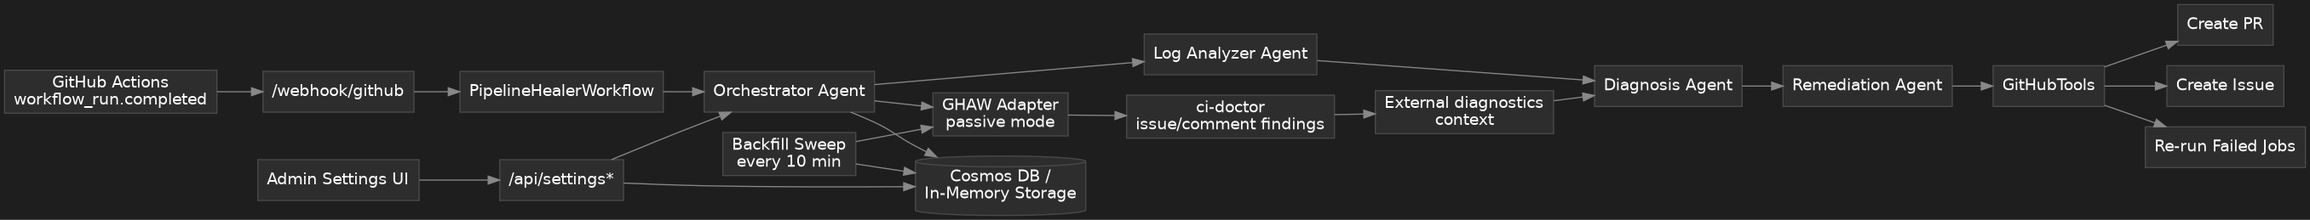
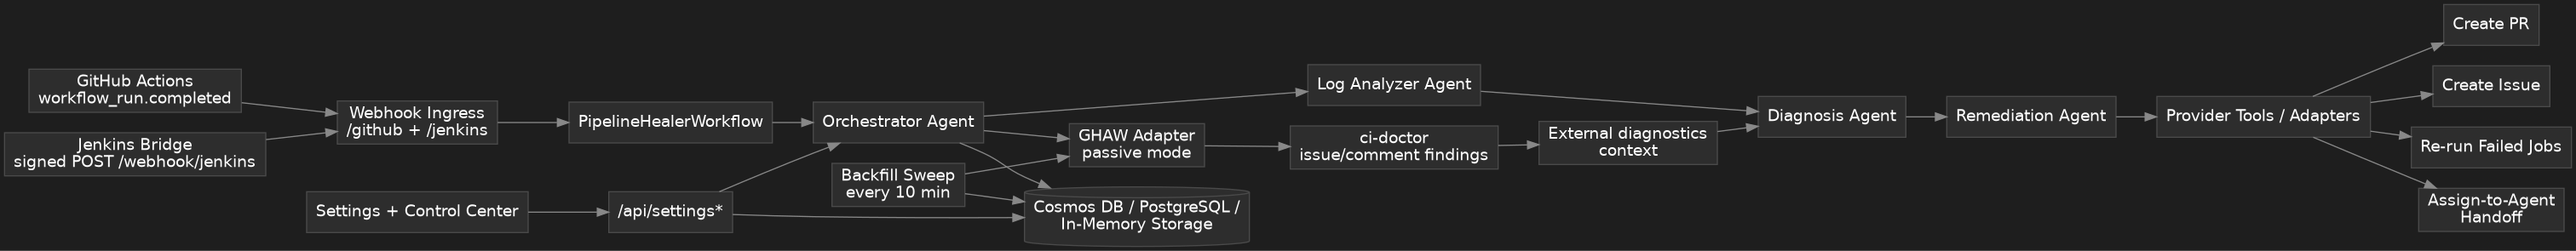
Refresh docs and diagrams for control-plane framing

diff --git a/frontend/src/components/Layout.tsx b/frontend/src/components/Layout.tsx
@@ -87,7 +87,7 @@ export default function Layout() {
             <div className="flex items-center">
               <div className="ml-3">
                 <p className="text-xs font-medium text-slate-300/90">OSS-first control plane</p>
-                <p className="text-xs text-slate-500">GitHub Actions + Jenkins bridge today</p>
+                <p className="text-xs text-slate-500">GitHub Actions + Jenkins Bridge today</p>
               </div>
             </div>
           </div>

diff --git a/frontend/src/pages/Landing.tsx b/frontend/src/pages/Landing.tsx
@@ -76,7 +76,7 @@ const operationalSignals = [
 
 const platformStats = [
   { value: 2, label: 'Ingress Paths', suffix: '' },
-  { value: 3, label: 'Operator Surfaces', suffix: '' },
+  { value: 4, label: 'Operator Surfaces', suffix: '' },
   { value: 4, label: 'Agent Stages', suffix: '' },
   { value: 100, label: 'Auditable Actions', suffix: '%' },
 ]

diff --git a/docs/diagrams/render_pipeline_healer_architecture.py b/docs/diagrams/render_pipeline_healer_architecture.py
@@ -6,27 +6,30 @@ from pathlib import Path
 def build_pipeline_healer_architecture_dot() -> str:
     nodes = {
         "GH": "GitHub Actions\\nworkflow_run.completed",
-        "WH": "/webhook/github",
+        "JN": "Jenkins Bridge\\nsigned POST /webhook/jenkins",
+        "WH": "Webhook Ingress\\n/github + /jenkins",
         "WF": "PipelineHealerWorkflow",
         "OR": "Orchestrator Agent",
         "LA": "Log Analyzer Agent",
         "DG": "Diagnosis Agent",
         "RM": "Remediation Agent",
-        "GT": "GitHubTools",
+        "GT": "Provider Tools / Adapters",
         "PR": "Create PR",
         "IS": "Create Issue",
         "RR": "Re-run Failed Jobs",
+        "HO": "Assign-to-Agent\\nHandoff",
         "ADP": "GHAW Adapter\\npassive mode",
         "CD": "ci-doctor\\nissue/comment findings",
         "EXT": "External diagnostics\\ncontext",
         "BF": "Backfill Sweep\\nevery 10 min",
-        "ST": "Cosmos DB /\\nIn-Memory Storage",
-        "UI": "Admin Settings UI",
+        "ST": "Cosmos DB / PostgreSQL /\\nIn-Memory Storage",
+        "UI": "Settings + Control Center",
         "API": "/api/settings*",
     }
 
     edges = [
         ("GH", "WH"),
+        ("JN", "WH"),
         ("WH", "WF"),
         ("WF", "OR"),
         ("OR", "LA"),
@@ -40,6 +43,7 @@ def build_pipeline_healer_architecture_dot() -> str:
         ("GT", "PR"),
         ("GT", "IS"),
         ("GT", "RR"),
+        ("GT", "HO"),
         ("OR", "ST"),
         ("BF", "ADP"),
         ("BF", "ST"),

diff --git a/README.md b/README.md
@@ -1,6 +1,6 @@
 # PipelineHealer
 
-<!-- LAST_VERIFIED: 9502342 -->
+<!-- LAST_VERIFIED: 39aec90 -->
 
 > OSS-first, policy-aware pipeline remediation platform with GitHub Actions and Jenkins bridge support today.
 
@@ -19,14 +19,14 @@ Current provider coverage is GitHub Actions plus a signed Jenkins bridge path. T
 ![Dashboard — processed count, safety gating ratios, failure type breakdown, and explainability snapshot](docs/screens/dashboard.png)
 ![Landing page — policy-aware remediation overview and operational snapshot](docs/screens/Pipelinehealer-Landing_Page.png)
 
-## Hackathon Snapshot
+## Project Snapshot
 
 - Public repository: `https://github.com/Canepro/pipelinehealer`
 - Live reference deployment: Azure Container Apps (backend + frontend)
 - Current release baseline: [`v0.3.3`](https://github.com/Canepro/pipelinehealer/releases/tag/v0.3.3)
 - `v0.3.2` required freeze scope shipped: `#36` (Jenkins bridge), `#42` (Assign-to-Agent), `#57` (storage posture hardening)
 - OSS-friendly durable storage is available: PostgreSQL adapter (`#58`) alongside Cosmos DB and in-memory development mode
-- Current release tracking umbrella: [#44](https://github.com/Canepro/pipelinehealer/issues/44)
+- Current release tracking umbrella: [#68](https://github.com/Canepro/pipelinehealer/issues/68)
 - Demo runbook: [docs/DEMO_SCRIPT.md](docs/DEMO_SCRIPT.md)
 
 ## Example Remediation Stories
@@ -216,7 +216,7 @@ flowchart TB
   end
 
   subgraph GOV["Policy and Operator Surface"]
-    UI["Dashboard / Activities / Settings"]
+    UI["Dashboard / Activities / Control Center / Settings"]
     API["Settings API<br/>/api/settings*"]
     AUD["Audit Trail"]
     LRN["Learning Queue + Promotion Gates"]
@@ -227,10 +227,11 @@ flowchart TB
     EXP["Explainability Metadata<br/>source path, reason codes"]
   end
 
-  subgraph OUT["GitHub Outcomes"]
+  subgraph OUT["Outcome Paths"]
     PR["Create or Reuse PR"]
     IS["Create or Reuse Issue"]
     RR["Retry Failed Jobs"]
+    HO["Assign-to-Agent Handoff"]
   end
 
   GH --> WH --> ORCH
@@ -240,6 +241,7 @@ flowchart TB
   REM --> PR
   REM --> IS
   REM --> RR
+  REM --> HO
 
   ORCH -. enrich .-> GHAW
   GHAW -. findings .-> DIA
@@ -259,15 +261,15 @@ flowchart TB
 
 ```mermaid
 sequenceDiagram
-  participant GH as GitHub Actions
+  participant SRC as Pipeline Source
   participant WH as Webhook API
   participant OR as Orchestrator
   participant DI as Diagnosis
   participant RM as Remediation
   participant DB as Storage
-  participant OUT as GitHub Artifacts
+  participant OUT as Provider / Handoff Outcomes
 
-  GH->>WH: workflow_run.completed (failure)
+  SRC->>WH: normalized failure event
   WH->>OR: normalized event
   OR->>DI: logs + context + policy snapshot
   DI-->>OR: diagnosis + confidence + evidence

diff --git a/CHANGELOG.md b/CHANGELOG.md
@@ -1,6 +1,6 @@
 # Changelog
 
-<!-- LAST_VERIFIED: 9477f08 -->
+<!-- LAST_VERIFIED: 39aec90 -->
 
 All notable changes to this project will be documented in this file.
 
@@ -15,7 +15,7 @@ The format is based on Keep a Changelog and this repo uses Semantic Versioning.
 ### Changed
 
 - Normalized operator-facing provenance language around `GET /api/settings`: `env` now represents portable startup-managed config rather than implying a specific deployment adapter such as ACA `secretref`.
-- Reframed the landing page, app shell, and Settings copy around PipelineHealer as an OSS-first pipeline remediation control plane rather than a hackathon-only CI demo, aligning product language with the operator surfaces shipped in `v0.4.0`.
+- Reframed the landing page, app shell, and Settings copy around PipelineHealer as an OSS-first pipeline remediation control plane rather than a hackathon-only CI demo, aligning product language with the operator surfaces targeted for `v0.4.0`.
 
 ## [v0.3.3] - 2026-03-05
 

diff --git a/docs/DEMO_SCRIPT.md b/docs/DEMO_SCRIPT.md
@@ -1,6 +1,6 @@
 # PipelineHealer Demo Recording Guide (Single-File Runbook)
 
-<!-- LAST_VERIFIED: 41575cf -->
+<!-- LAST_VERIFIED: 39aec90 -->
 
 Use this as the only doc during recording day. It includes:
 
@@ -15,6 +15,8 @@ Related docs:
 - `docs/HACKATHON_LOG.md` for submission checklist and milestone status
 - `docs/API.md` for full API endpoint reference and best practices
 - `docs/CLI.md` for the full CLI command reference
+
+This runbook remains intentionally demo-specific and GitHub Actions-focused because the current recording flow uses the demo repo webhook path. That does not narrow the product scope; PipelineHealer itself is framed more broadly as a pipeline remediation control plane.
 
 ## Hackathon Requirement Alignment (March 5, 2026)
 

diff --git a/docs/README.md b/docs/README.md
@@ -1,6 +1,6 @@
 # Docs Index
 
-<!-- LAST_VERIFIED: 7280f80 -->
+<!-- LAST_VERIFIED: 39aec90 -->
 
 Use this index to find the right doc quickly.
 
